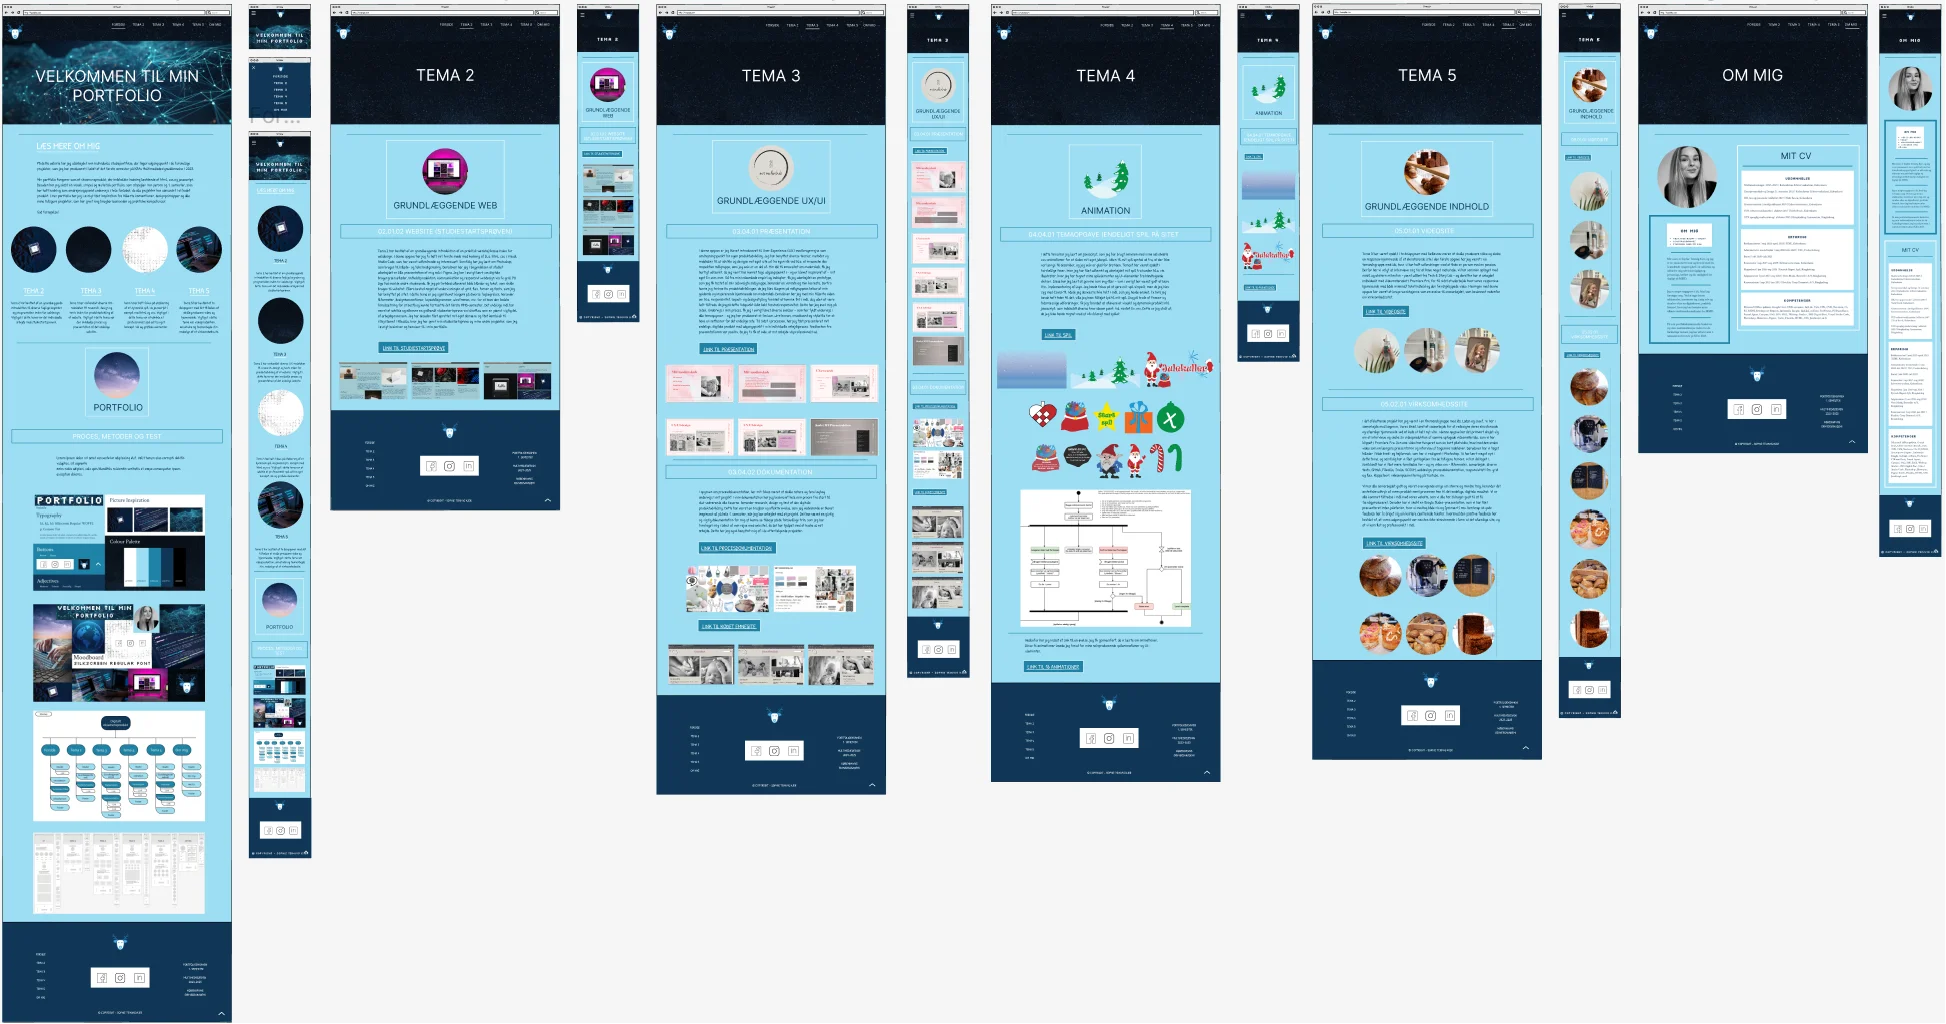
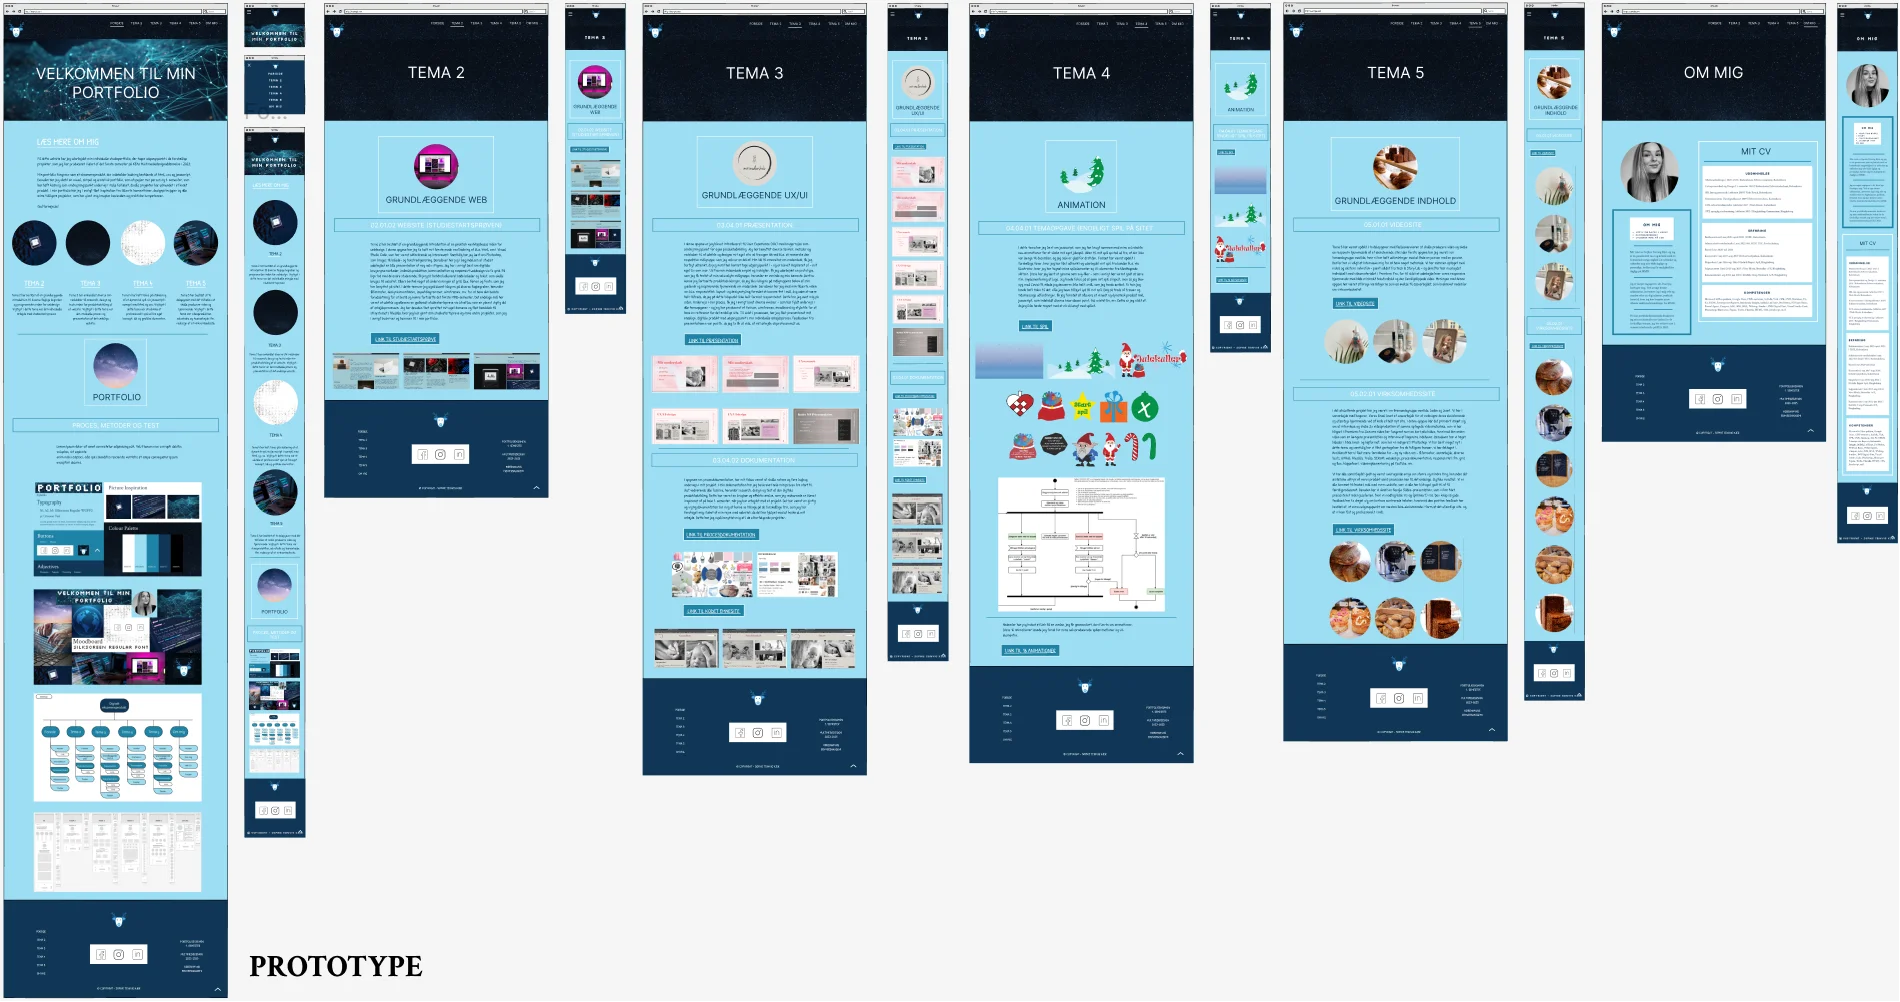
erstat billeder og ændre tekst

diff --git a/html/tema5.html b/html/tema5.html
@@ -77,23 +77,17 @@
             </section>
             <p>
                 Tema 5 har været opdelt i to delopgaver med fællesnævneren at skulle producere video og skabe en
-                responsiv
-                hjemmeside af et eksisterende site.
-
-                <br>
-                I den første opgave har jeg været i en tomandsgruppe med Ida, hvor
-                vi har haft udfordringer
-                med at finde en person med en passion. Derfor har vi valgt at interviewe mig for at have noget
-                materiale. Vi har
-                sammen optaget med mobil og ekstern mikrofon - pænt udlånt fra Tech & Story Lab - og derefter har vi
-                arbejdet
-                individuelt med
-                videomaterialet i Premiere Pro, for til sidst at udarbejde hver vores responsive hjemmeside med både
-                minimalt
-                tekstindhold og den færdigklippede video. Meningen med denne opgave har været at bruge værktøjerne som
-                en øvelse til casearbejdet, som beskrevet nedenfor om virksomhedssitet.
+                responsiv hjemmeside af et eksisterende site. Jeg har lært meget nyt i dette tema, og samtidig har jeg
+                fået repeteret tidligere temaer. Herunder har jeg fået bedre forståelse for filformater, diverse tests,
+                GitHub, Git, Filezilla, Trello, SCRUM, heuristisk test, webdesign, procesdokumentation, responsivitet
+                ifm. grid og flex, klippeteori, videoimplementering på YouTube, mv. <br> <br>
+                Den første opgave vedr. videosite løste jeg i en tomandsgruppe med Ida. Vi havde vanskeligt ved at finde
+                en person med en passion, og vi valgte derfor at interviewe mig for at have noget materiale. Vi har
+                optaget med mobilkamera (iPhone 13) og ekstern mikrofon udlånt fra Tech & Story Lab. Derefter har vi
+                arbejdet individuelt med videomaterialet i Premiere Pro for til sidst at udarbejde hver vores responsive
+                hjemmeside med både minimalt tekstindhold og den færdigklippede video. Jeg valgte at fokusere på
+                færdiggørelse af videodelen frem for hjemmesidens endelige look for at prioritere min tid bedst muligt.
             </p>
-
 
             <br> <br> <br> <a class="fctabutton2" href="https://teinvig.dk/kea/05_indhold/video/index.html">Link til
                 videosite</a> <br> <br> <br>
@@ -118,26 +112,17 @@
                 <h2>05.02.01 Virksomhedssite</h2>
             </div>
             <p>
-                I det afsluttende projekt har jeg været i en firemandsgruppe med Ida, Ladan og Josef. Vi har i
-                samarbejde med bageren, Vores Brød, lavet et casearbejde for at redesigne deres eksisterende og ufærdige
-                hjemmeside
-                ved at kode et helt nyt site. I denne opgave har det primært drejet sig om at interviewe og skabe 2x
-                videoproduktion af samme optagede videomateriale, som vi har klippet i Premiere Pro. Den ene
-                video har
-                fungeret som en kort pilotvideo, hvorimod den anden video som en længere præsentation og interview af
-                bagerens indehaver. Derudover har vi taget billeder i både bred- og højformat, som har vi redigeret i
-                Photoshop. Vi har lært meget nyt i dette tema, og samtidig har vi fået gentagelser fra de tidligere
-                temaer, vi har deltaget i. Heriblandt har vi fået mere forståelse for - og ny viden om - filformater,
-                samarbejde,
-                diverse tests, GitHub, Filezilla, Trello, SCRUM, webdesign, procesdokumentation, responsivitet ifm. grid
-                og flex, klippeteori, videoimplementering på YouTube, mv. <br> <br>
-                Vi har alle samarbejdet godt og været overvejende enige om større og mindre ting, herunder det æstetiske
-                udtryk af vores produkt samt processen hen til det endelige, digitale resultat. Vi er alle kommet
-                tilfredse i mål med vores website, som vi alle har bidraget godt til at få færdigproduceret. Desuden har
-                vi skabt en Google Slides-præsentation, som vi har fået præsenteret inden juleferien, hvor vi modtog
-                både ris og (primært) ros. Den knap så gode feedback har fx drejet sig om kortere centrerede tekster,
-                hvorimod den positive feedback har bestået af, at vores udgangspunkt var næsten ikke-eksisterende i form
-                at det ufærdige site, og at vi kom flot og professionelt i mål.
+                I det afsluttende projekt var jeg del af en firemandsgruppe med Ida, Ladan og Josef. Vi har i samarbejde
+                med virksomheden, Vores Brød, lavet et redesign af deres eksisterende (og ufærdige) hjemmeside ved at
+                kode et nyt, brugervenligt og responsivt site. I denne opgave har det primært drejet sig om at
+                interviewe og skabe 2x videoproduktion af samme optagede videomateriale, som vi har klippet i Premiere
+                Pro. Den ene video har fungeret som en kort pilotvideo, hvor den anden video udgør en længere
+                præsentation og interview af virksomhedens ejer. Derudover har vi taget billeder i både bred- og
+                højformat, som har vi redigeret i Photoshop. <br> <br>
+                Projektet afsluttedes med en Google Slides-præsentation, som vi fælles præsenterede inden juleferien.
+                Her modtog vi både ris og (primært) ros. Vi blev bl.a. rådet til at anvende kortere centrerede tekster.
+                Omvendt fik vi ros for, at vi kom flot og professionelt i mål til trods for vores udgangspunkt i
+                virksomhedens meget ufærdige site.
             </p>
 
             <br> <br> <br> <a class="fctabutton2"

diff --git a/html/tema3.html b/html/tema3.html
@@ -76,30 +76,18 @@
                 <h2>03.04.01 Præsentation</h2>
             </section>
             <p>
-                I denne opgave er jeg blevet introduceret til User Experience (UX) med brugerrejse som omdrejningspunkt
-                for
-                egen produktudvikling. Jeg har benyttet diverse teorier, metoder og redskaber til at udvikle og designe
-                mit eget site ud fra egen idé ved bl.a. at
-                researche den respektive målgruppe, som jeg selv er en del af. Min idé til emnesitet om moderskab, fik
-                jeg
-                hurtigt udtænkt, da jeg nemt har kunnet tage udgangspunkt i - og er blevet inspireret af - mit eget liv
-                som mor. Ud fra min indsamlede empiri og
-                indsigter, fik jeg udarbejdet en
-                prototype, som jeg
-                fik testet af min selvvalgte målgruppe, herunder en veninde og min kæreste. Derfra kunne jeg fortsætte
-                produktudviklingen, da jeg blev klogere på målgruppens behov af min guidende og inspirerende hjemmeside
-                om moderskab.
-                Derudover har jeg med min tillærte viden om bl.a. responsivitet,
-                layout- og designstyling formået at komme fint i mål, dog uden at være helt tilfreds, da jeg på dette
-                tidspunkt ikke helt forstod responsivitet. Dette har jeg øvet mig på siden. Undervejs i min proces, fik
-                jeg i øvrigt lavet
-                diverse øvelser - som har fyldt undervejs i alle temaopgaver - og jeg har produceret et favicon,
-                wireframes,
-                moodboard og
-                styletile for at have en rettesnor for det endelige site. Til sidst i processen, har jeg fået
-                præsenteret mit endelige, digitale produkt med
-                udgangspunkt i min individuelle
-                arbejdsproces. Feedbacken fra præsentationen var positiv, da jeg fx fik at vide, at mit arbejde så
+                I tema 3 er jeg blevet introduceret til User Experience (UX) med brugerrejser som omdrejningspunkt for
+                produktudvikling. Derudover har tema 3 omhandlet principper for bl.a. responsivitet, layout- og
+                designstyling. Af diverse redskaber, har vi i øvrigt lært om bl.a. Sketching, Lighthouse Test, User
+                Interface, LoFi, HiFi og Surveys, mv. <br> <br>
+                Opgaven har været at benytte teorier, metoder og redskaber til at udvikle og designe mit eget site ud
+                fra egen idé ved bl.a. at researche den relevante målgruppe. Min idé til emnesitet om ’moderskab’ er
+                inspireret af mit eget liv som mor. Ud fra min indsamlede empiri og indsigter fik jeg udarbejdet en
+                prototype, som jeg fik testet af min selvvalgte målgruppe, herunder en veninde og min kæreste. Derfra
+                kunne jeg fortsætte produktudviklingen, da jeg blev klogere på målgruppens behov. Undervejs i min proces
+                anvendte jeg Favicon, wireframes, moodboard og styletile som rettesnore for det endelige site. Til sidst
+                i processen præsenterede jeg mit endelige digitale produkt med udgangspunkt i min individuelle
+                arbejdsproces. Feedbacken fra præsentationen var positiv, og jeg fx fik at vide, at mit arbejde så
                 professionelt ud.
             </p>
 
@@ -138,17 +126,12 @@
                 <h2>03.04.02 Dokumentation</h2>
             </section>
             <p>
-                I opgaven om procesdokumentation, har mit fokus været at skulle notere og føre logbog undervejs
-                i mit projekt. I min dokumentation har jeg beskrevet hele min proces fra start til slut vedrørende alle
-                faserne, herunder
+                I opgaven om procesdokumentation har mit fokus været at notere og føre logbog undervejs i mit projekt. I
+                min dokumentation har jeg beskrevet min proces fra start til slut omfattende alle faser herunder
                 research, design og test af den digitale produktudvikling. Dette har været en brugbar og effektiv
-                øvelse, som jeg vedvarende er blevet inspireret af på hele 1. semester, når jeg har arbejdet med et
-                projekt. Det har været en
-                givtig og vigtig dokumentation for mig at kunne se tilbage på de forskelllige trin, som jeg har
-                foretaget
-                mig i
-                løbet af min rejse med websitet, da det har hjulpet med at huske al mit arbejde. Dette har jeg også
-                benyttet mig af i de efterfølgende projekter.
+                øvelse, som jeg vedvarende har anvendt gennem 1. semester, når jeg har arbejdet med et projekt. Det har
+                været en givtig og vigtig dokumentation for mig at kunne se tilbage på de forskellige trin, som jeg har
+                foretaget i løbet af min udvikling af websitet.
             </p>
 
             <br> <br> <br> <a class="fctabutton2" href="/pdf/030402_UXUI_procesdokumentation_sophieteinvig.pdf"

diff --git a/html/tema2.html b/html/tema2.html
@@ -76,32 +76,19 @@
                 <h2>02.01.02 Website (studiestartsprøven)</h2>
             </div>
             <p>
-                Tema 2 har bestået af en grundlæggende
-                introduktion af en praktisk værktøjskasse inden for webdesign.
-                I denne opgave har jeg fx haft mit første møde med kodning af bl.a. html, css i Visual Studio Code, som
-                har været udfordrende og interessant.
-                Samtidig
-                har jeg
-                lært om
-                Photoshop, som
-                bruges til billede- og tekstredigerering. Derudover har jeg i begyndelsen af studiet udarbejdet en lille
-                præsentation af mig selv
-                i
-                Figma. Jeg har i øvrigt lært om digitale brugergrænseflader, indholdsproduktion, kommunikation og
-                responsivt
-                webdesign via fx grid. På lige fod med de andre studerende, fik jeg på forhånd udleveret både billeder
-                og tekst, som skulle bruges til
-                websitet. Ellers bestod noget af undervisningen af grid, flex, farver og fonts, som jeg har benyttet på
-                sitet. I dette tema er jeg også blevet klogere på diverse fagbegreber, herunder filformater,
-                designkonventioner, layoutdiagrammer, wireframes, mv. for at have den bedste forudsætning for at bestå
-                og kunne
-                fortsætte det første MMD-semester.
-                Det endelige mål har været at udvikle og aflevere en godkendt studiestartsprøve via
-                WiseFlow som en yderst vigtig del af arbejdsprocessen.
-                Jeg har desuden fået oprettet mit eget domæne og fået kendskab til stisystemet i
-                Filezilla,
-                hvor jeg har gemt min studiestartsprøve og mine andre projekter, som jeg i øvrigt beskriver og henviser
-                til i min portfolio.
+                Tema 2 bestod af en grundlæggende introduktion til en praktisk værktøjskasse inden for webdesign med
+                fokus på kodning af bl.a. html og css-styling i programmet Visual Studio Code. Dertil har jeg lært om
+                Photoshop, som bruges til billede- og tekstredigering samt digitale brugergrænseflader,
+                indholdsproduktion, kommunikation og responsivt webdesign via fx grid. Jeg er også blevet klogere på
+                diverse fagbegreber, herunder filformater, designkonventioner, layoutdiagrammer, wireframes, mv. Det
+                endelige mål har været at udvikle og aflevere en godkendt studiestartsprøve via WiseFlow med fokus på at
+                tilegne sig et solidt fundament for resten af uddannelsen. <br> <br>
+                I begyndelsen af studiet udarbejdede jeg en kort præsentation af mig selv i Figma, hvortil jeg forinden
+                fik udleveret billeder og tekst, som skulle bruges til websitet. Dertil har jeg anvendt principper vedr.
+                grid, flex, farver og fonts på sitet, hvor jeg har fulgt de layoutdiagrammer, vi skulle opsætte sitet ud
+                fra. Jeg har desuden fået oprettet mit eget domæne og fået kendskab til stisystemet i Filezilla, hvor
+                jeg har gemt min studiestartsprøve og mine andre projekter, som jeg i øvrigt beskriver og henviser til i
+                min portfolio.
             </p>
 
             <br> <br> <br> <a class="fctabutton2"

diff --git a/html/tema4.html b/html/tema4.html
@@ -76,19 +76,17 @@
                 <h2>04.04.01 Temaopgave (endeligt spil på sitet)</h2>
             </section>
             <p>
-                I dette tema har jeg lært om javascript, som jeg har brugt sammen med mine selvskabte css-animationer
-                for at skabe mit eget julespil. Idéen til mit spil opstod ud fra, at der ikke var længe til december, og
-                jeg selv er glad for årstiden.
-                Temaet har været opdelt i forskellige faser, hvor jeg har fået udtænkt og udarbejdet mit spil fra bunden
-                bl.a. via Illustrator, hvor jeg har tegnet mine spilelementer og UI-elementer fra håndtegnede skitser.
-                Disse har jeg lært at
-                gemme som svg-filer - som i øvrigt har været godt at lære ifm. implementering af logo. Jeg havde fokus
-                på at gøre mit spil simpelt, men da jeg blev syg med Covid-19,
-                nåede jeg desværre ikke helt i mål, som jeg havde ønsket. Fx hvis jeg havde haft tiden til det, ville
-                jeg have tilføjet lyd til mit spil. Dog på trods af fravær og tidsmæssige udfordringer, fik jeg formået
-                at aflevere
-                et visuelt og dynamisk produkt inkl. javascript, som indeholdt diverse krav såsom point, tid, mistet
-                liv, mv. Dette er jeg stolt af, da jeg ikke havde regnet med at nå så langt med spillet.
+                I tema 4 har jeg lært om javascript, som jeg har brugt sammen med mine selvskabte css-animationer for at
+                skabe mit eget spil. Temaet har været opdelt i forskellige faser, hvor jeg har udviklet mit spil fra
+                bunden bl.a. via Illustrator, hvor jeg har tegnet mine spilelementer og UI-elementer fra håndtegnede
+                skitser gemt i SVG-format. Jeg er i øvrigt blevet introduceret til DOM, Game Design, container og
+                sprite, css positionering, mv. Vi har desuden lavet diverse øvelser, herunder svampespil, 16 animationer
+                samt 'translate, rotate and scale'. <br> <br>
+                Idéen til mit julespil opstod, da juletiden var nært forestående. Jeg havde fokus på at gøre mit spil
+                simpelt, men som følge af sygdom nåede jeg desværre ikke helt i mål, som jeg havde ønsket mig. Hvis jeg
+                havde haft tiden, ville jeg fx have tilføjet lyd til mit spil. Udfordringer til trods formåede jeg dog
+                at aflevere et visuelt og dynamisk produkt inkl. javascript, som indeholdt diverse krav til point, tid,
+                mistet liv, mv. Førnævnte SVG-format har jeg i øvrigt anvendt som logo til mit site.
             </p>
 
             <br> <br> <br> <a class="fctabutton2" href="https://teinvig.dk/kea/04_animation/website/index.html">Link til

diff --git a/html/index.html b/html/index.html
@@ -68,22 +68,13 @@
             </div>
             <p>
                 På dette website har jeg udarbejdet min individuelle studieportfolio, der tager udgangspunkt i de
-                forskellige
-                projekter, som jeg har produceret i løbet af det første semester på KEAs Multimediedesignuddannelse i
-                2023.
-                <br> <br>
+                forskellige projekter, som jeg har produceret i løbet af 1. semester på KEAs Multimediedesignuddannelse
+                i 2023. <br>
                 Min portfolio fungerer som et eksamensprodukt, der indeholder kodning bestående af html, css og
-                javascript.
-                Desuden har
-                jeg skabt en visuel, simpel og æstetisk portfolio, som afspejler min person og 1. semester, som har haft
-                kodning som omdrejningspunkt undervejs i hele forløbet, da alle projekter har udmundet i et kodet
-                produkt. I min portfolio har jeg i
-                øvrigt fået
-                inspiration fra tillærte
-                konventioner,
-                designprincipper og alle mine tidligere projekter, som har givet mig brugbar basisviden og praktiske
-                kompetencer.
-                <br> <br>
+                javascript. Jeg har skabt en visuel, simpel og æstetisk portfolio, som afspejler min person og 1.
+                semesters fokus på kodning og kodede produkter. I min portfolio har jeg fået inspiration fra tillærte
+                konventioner, designprincipper og mine tidligere projekter, som har givet mig brugbar basisviden og
+                praktiske kompetencer. <br>
                 God fornøjelse!
             </p>
         </div>
@@ -188,6 +179,12 @@
         <div class="fvalues">
             <div class="billede5">
                 <img src="/images/wireframes.webp" class="proces" alt="billede af wireframes">
+            </div>
+        </div>
+
+        <div class="fvalues">
+            <div class="billede6">
+                <img src="/images/layoutdiagrammer.webp" class="proces" alt="billede af layoutdiagrammer">
             </div>
         </div>
 
